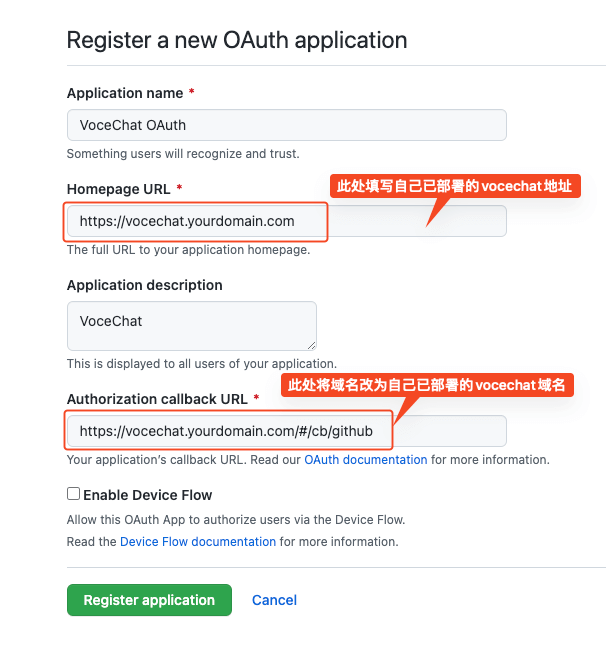
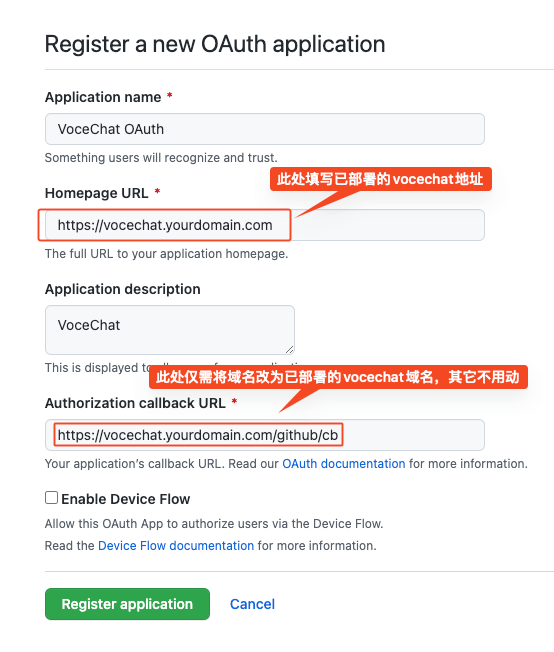
docs: updates

diff --git a/docs/setting/third_login/login-github.md b/docs/setting/third_login/login-github.md
@@ -2,17 +2,25 @@
 
 The steps of enabling Github Login are as follows:
 
-## 1. Login to https://github.com/ ,
+:::tip
+GitHub account required
+:::
 
-## 2. Access the URL below, and complete the required form:
+## Login to https://github.com/ ,
+
+## Access the URL below, and complete the required form:
 
 [https://github.com/settings/applications/new](https://github.com/settings/applications/new)
 ![img.jpg](image/login-github-0.png)
+
+:::tip
+GitHub OAuth callback URI:`https://vocechat.yourdomain.com/github/cb`, only replace the domain with your VoceChat domain.
+:::
 
 ## get ClientID, ClientSecret:
 
 ![img.jpg](image/login-github-1.jpg)
 
-## 3. Fill the clientID and ClientSecret into the vocechat settings:
+## 3. Fill the clientID and ClientSecret into the VoceChat settings:
 
 ![img.jpg](image/login-github-1.jpg)

diff --git a/i18n/zh-cn/docusaurus-plugin-content-docs/current/setting/third_login/login-github.md b/i18n/zh-cn/docusaurus-plugin-content-docs/current/setting/third_login/login-github.md
@@ -2,7 +2,7 @@
 title: Github 登录
 ---
 
-# 如何设置 Github 登录?
+# 设置 Github 登录
 
 :::tip 设置前提
 需要有 GitHub 账号
@@ -16,10 +16,14 @@ title: Github 登录
 
 ![img.jpg](image/login-github-0.png)
 
+:::tip
+最关键的是回调地址一定要填写正确：`https://vocechat.yourdomain.com/github/cb`，只需将域名换为自己部署成功的 VoceChat 域名，其它不用改。
+:::
+
 ## 获得 ClientID, Client Secret
 
 ![img.jpg](image/login-github-1.jpg)
 
-## 将 ClientID, Client Secret 填入 vocechat 后台
+## 将 ClientID, Client Secret 填入 VoceChat 后台
 
 ![img.jpg](image/login-github-2.jpg)
